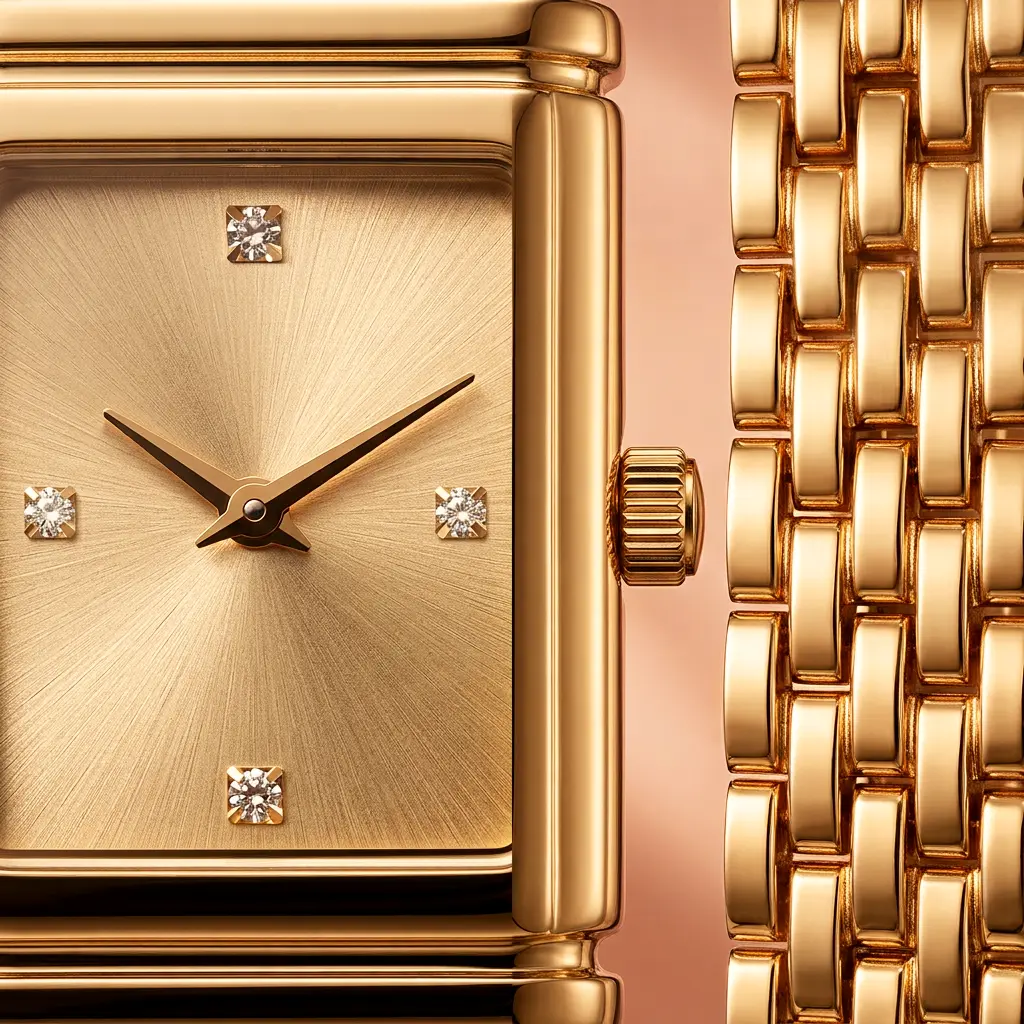
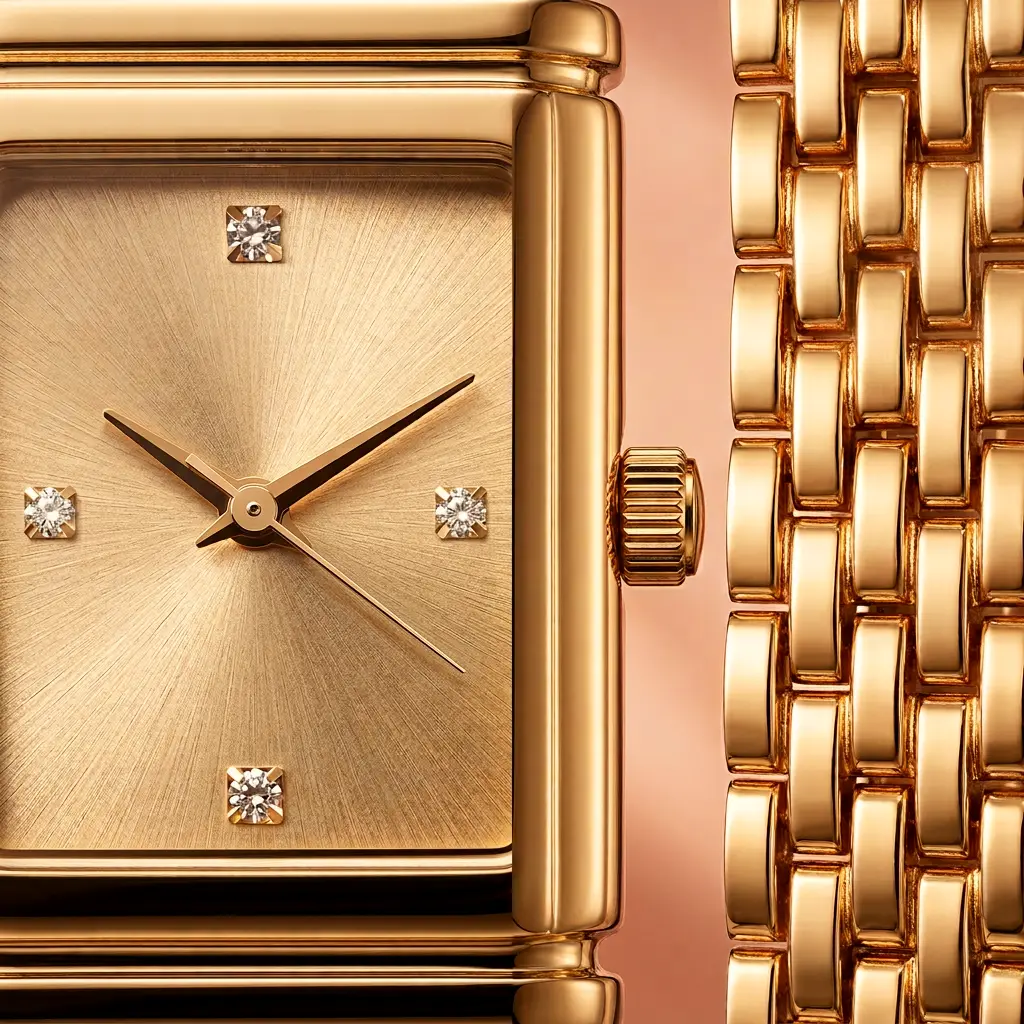
Add missing seconds hand to gold FIYOTA dials (3 shots), re-export, QA rule R11.1

diff --git a/design/deliveries/fiyota-gold-square/README.md b/design/deliveries/fiyota-gold-square/README.md
@@ -1,45 +1,32 @@
 # FIYOTA Crystal Square — GOLD · মেয়েদের ঘড়ি
 
 ৩টি ছবি, সব **১:১ (১০২৪×১০২৪)**, গ্রেড `miqa-warm`, কাঁচে কোনো ফোন-রিফ্লেকশন নেই।
-হিরোর নিচে কোডে বসানো বাংলা **বাটারফ্লাই লক** কার্ড। JPG + WebP দুই ফরম্যাটে।
+ডায়ালে ঘণ্টা + মিনিট + **সেকেন্ড হ্যান্ড** — তিনটাই আছে। হিরোর নিচে কোডে বসানো বাংলা
+**বাটারফ্লাই লক** কার্ড। JPG + WebP দুই ফরম্যাটে।
 
 ## ডাউনলোড লিংক
 
 ### Main hero (১:১, বাটারফ্লাই লক কার্ডসহ)
-- নাম: `fiyota-gold-square-main.jpg` · সাইজ: 84 KB
-- ফাইল পেজ (ডাউনলোড আইকন ↘): https://github.com/abdurrahman58nayem/Watch/blob/arena/c068212c-watch/design/deliveries/fiyota-gold-square/fiyota-gold-square-main.jpg
-- ডাইরেক্ট ডাউনলোড: https://raw.githubusercontent.com/abdurrahman58nayem/Watch/arena/c068212c-watch/design/deliveries/fiyota-gold-square/fiyota-gold-square-main.jpg
-
-### Main hero — WebP
-- নাম: `fiyota-gold-square-main.webp` · সাইজ: 29 KB
-- ফাইল পেজ (ডাউনলোড আইকন ↘): https://github.com/abdurrahman58nayem/Watch/blob/arena/c068212c-watch/design/deliveries/fiyota-gold-square/fiyota-gold-square-main.webp
-- ডাইরেক্ট ডাউনলোড: https://raw.githubusercontent.com/abdurrahman58nayem/Watch/arena/c068212c-watch/design/deliveries/fiyota-gold-square/fiyota-gold-square-main.webp
+- JPG: 92 KB · WebP: 31 KB
+- ফাইল পেজ (ডাউনলোড ↓ আইকন): https://github.com/abdurrahman58nayem/Watch/blob/arena/c068212c-watch/design/deliveries/fiyota-gold-square/fiyota-gold-square-main.jpg
+- ডাইরেক্ট: https://raw.githubusercontent.com/abdurrahman58nayem/Watch/arena/c068212c-watch/design/deliveries/fiyota-gold-square/fiyota-gold-square-main.jpg
+- WebP: https://github.com/abdurrahman58nayem/Watch/blob/arena/c068212c-watch/design/deliveries/fiyota-gold-square/fiyota-gold-square-main.webp
 
 ### Wrist / হাতের ছবি
-- নাম: `fiyota-gold-square-wrist.jpg` · সাইজ: 127 KB
-- ফাইল পেজ (ডাউনলোড আইকন ↘): https://github.com/abdurrahman58nayem/Watch/blob/arena/c068212c-watch/design/deliveries/fiyota-gold-square/fiyota-gold-square-wrist.jpg
-- ডাইরেক্ট ডাউনলোড: https://raw.githubusercontent.com/abdurrahman58nayem/Watch/arena/c068212c-watch/design/deliveries/fiyota-gold-square/fiyota-gold-square-wrist.jpg
-
-### Wrist — WebP
-- নাম: `fiyota-gold-square-wrist.webp` · সাইজ: 55 KB
-- ফাইল পেজ (ডাউনলোড আইকন ↘): https://github.com/abdurrahman58nayem/Watch/blob/arena/c068212c-watch/design/deliveries/fiyota-gold-square/fiyota-gold-square-wrist.webp
-- ডাইরেক্ট ডাউনলোড: https://raw.githubusercontent.com/abdurrahman58nayem/Watch/arena/c068212c-watch/design/deliveries/fiyota-gold-square/fiyota-gold-square-wrist.webp
+- JPG: 133 KB · WebP: 50 KB
+- ফাইল পেজ (ডাউনলোড ↓ আইকন): https://github.com/abdurrahman58nayem/Watch/blob/arena/c068212c-watch/design/deliveries/fiyota-gold-square/fiyota-gold-square-wrist.jpg
+- ডাইরেক্ট: https://raw.githubusercontent.com/abdurrahman58nayem/Watch/arena/c068212c-watch/design/deliveries/fiyota-gold-square/fiyota-gold-square-wrist.jpg
+- WebP: https://github.com/abdurrahman58nayem/Watch/blob/arena/c068212c-watch/design/deliveries/fiyota-gold-square/fiyota-gold-square-wrist.webp
 
 ### Detail / ম্যাক্রো
-- নাম: `fiyota-gold-square-detail.jpg` · সাইজ: 263 KB
-- ফাইল পেজ (ডাউনলোড আইকন ↘): https://github.com/abdurrahman58nayem/Watch/blob/arena/c068212c-watch/design/deliveries/fiyota-gold-square/fiyota-gold-square-detail.jpg
-- ডাইরেক্ট ডাউনলোড: https://raw.githubusercontent.com/abdurrahman58nayem/Watch/arena/c068212c-watch/design/deliveries/fiyota-gold-square/fiyota-gold-square-detail.jpg
-
-### Detail — WebP
-- নাম: `fiyota-gold-square-detail.webp` · সাইজ: 134 KB
-- ফাইল পেজ (ডাউনলোড আইকন ↘): https://github.com/abdurrahman58nayem/Watch/blob/arena/c068212c-watch/design/deliveries/fiyota-gold-square/fiyota-gold-square-detail.webp
-- ডাইরেক্ট ডাউনলোড: https://raw.githubusercontent.com/abdurrahman58nayem/Watch/arena/c068212c-watch/design/deliveries/fiyota-gold-square/fiyota-gold-square-detail.webp
+- JPG: 251 KB · WebP: 131 KB
+- ফাইল পেজ (ডাউনলোড ↓ আইকন): https://github.com/abdurrahman58nayem/Watch/blob/arena/c068212c-watch/design/deliveries/fiyota-gold-square/fiyota-gold-square-detail.jpg
+- ডাইরেক্ট: https://raw.githubusercontent.com/abdurrahman58nayem/Watch/arena/c068212c-watch/design/deliveries/fiyota-gold-square/fiyota-gold-square-detail.jpg
+- WebP: https://github.com/abdurrahman58nayem/Watch/blob/arena/c068212c-watch/design/deliveries/fiyota-gold-square/fiyota-gold-square-detail.webp
 
 ### প্রোডাক্ট কপি (বাংলা)
-- নাম: `copy.md` · সাইজ: —
-- ফাইল পেজ (ডাউনলোড আইকন ↘): https://github.com/abdurrahman58nayem/Watch/blob/arena/c068212c-watch/design/deliveries/fiyota-gold-square/copy.md
-- ডাইরেক্ট ডাউনলোড: https://raw.githubusercontent.com/abdurrahman58nayem/Watch/arena/c068212c-watch/design/deliveries/fiyota-gold-square/copy.md
+- https://github.com/abdurrahman58nayem/Watch/blob/arena/c068212c-watch/design/deliveries/fiyota-gold-square/copy.md
 
 ## কীভাবে ডাউনলোড করবেন
 প্রথম লিংক খুলুন → ফাইল পেজ আসবে → উপরে ডানে **ডাউনলোড (↓)** আইকনে ক্লিক → ফাইল সেভ হবে।
-অথবা দ্বিতীয় লিংক (ডাইরেক্ট) ব্রাউজারে খুললেই ছবি/টেক্সট চলে আসবে।
+

diff --git a/design/BRIEF.md b/design/BRIEF.md
@@ -87,6 +87,13 @@
 (ওয়ান ফটোতে কালো ডায়াল, আরেকটায় নেভি — এটা ব্লকার)। বেস রেফারেন্স হিসেবে ইনপুট ছবিটাই
 প্রতিবার সাপ্লাই করব।
 
+**R11.১ — ডায়ালে তিনটি কাঁটাই থাকতে হবে (ঘণ্টা + মিনিট + সেকেন্ড)।**
+জেনারেট হওয়া ছবিতে প্রায়ই সরু সেকেন্ড হ্যান্ড বাদ পড়ে। ডেলিভারির আগে ডায়াল ১:১ জুম করে
+চেক করব — সেকেন্ড হ্যান্ড না থাকলে `generate_image` দিয়ে শুধু ওই অংশে হ্যান্ড যোগ করব
+(প্রম্পটে: “hairline-thin gold seconds hand, no counterweight, nothing else changes”),
+তারপর হাত/মার্কার/ডায়াল টেক্সচার অপরিবর্তিত আছে কি না মিলিয়ে দেখব।
+সিলভার সেটে আগেই ছিল; গোল্ড সেটে ছিল না — ২০২৬-১১-০৩ এ যোগ করা হয়েছে।
+
 **R12 — ভিডিও (পেন্ডিং)।**
 ভিডিওর কাজটা এই রিপোতে এখনো লেখা নেই — ভাইয়ার সাথে কনফার্ম করে নিচের সেকশনে যোগ করা হবে,
 তারপর সেই নিয়মও R1–R11-এর মতোই ফিক্সড থাকবে।

diff --git a/design/deliveries/fiyota-gold-square/copy.md b/design/deliveries/fiyota-gold-square/copy.md
@@ -77,9 +77,9 @@
 
 | ছবি | ফাইল | সাইজ | JPG | WebP |
 |---|---|---|---|---|
-| Main (১:১, বাটারফ্লাই লক কার্ডসহ) | `fiyota-gold-square-main` | ১০২৪×১০২৪ | ৮৪KB | ২৯KB |
-| Wrist (১:১) | `fiyota-gold-square-wrist` | ১০২৪×১০২৪ | ১২৭KB | ৫৫KB |
-| Detail (১:১) | `fiyota-gold-square-detail` | ১০২৪×১০২৪ | ২৬৩KB | ১৩৪KB |
+| Main (১:১, বাটারফ্লাই লক কার্ডসহ) | `fiyota-gold-square-main` | ১০২৪×১০২৪ | ৯২KB | ৩১KB |
+| Wrist (১:১) | `fiyota-gold-square-wrist` | ১০২৪×১০২৪ | ১৩৩KB | ৫১KB |
+| Detail (১:১) | `fiyota-gold-square-detail` | ১০২৪×১০২৪ | ২৫১KB | ১৩১KB |
 
 - সব ছবি **১:১**, sRGB, metadata stripped · গ্রেড `miqa-warm`
 - কাঁচে ফোন/ক্যামেরার রিফ্লেকশন নেই
